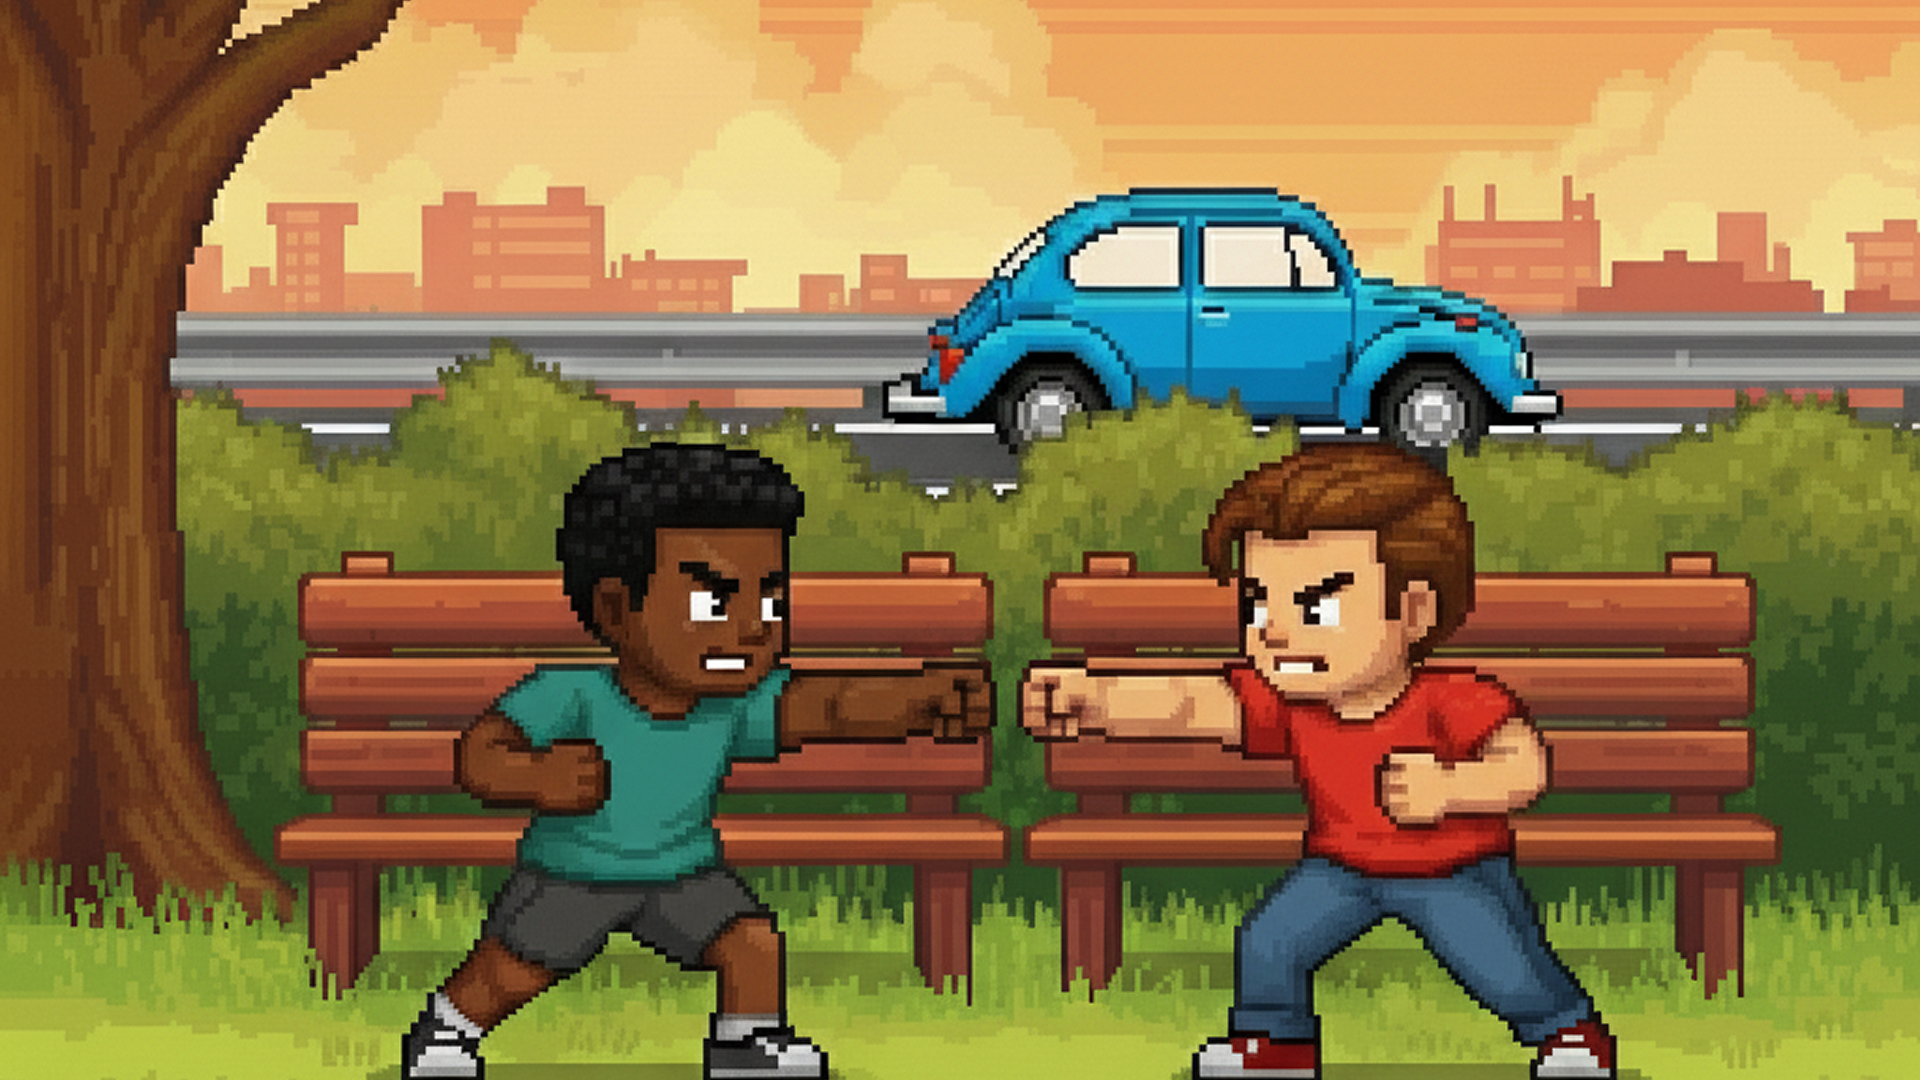
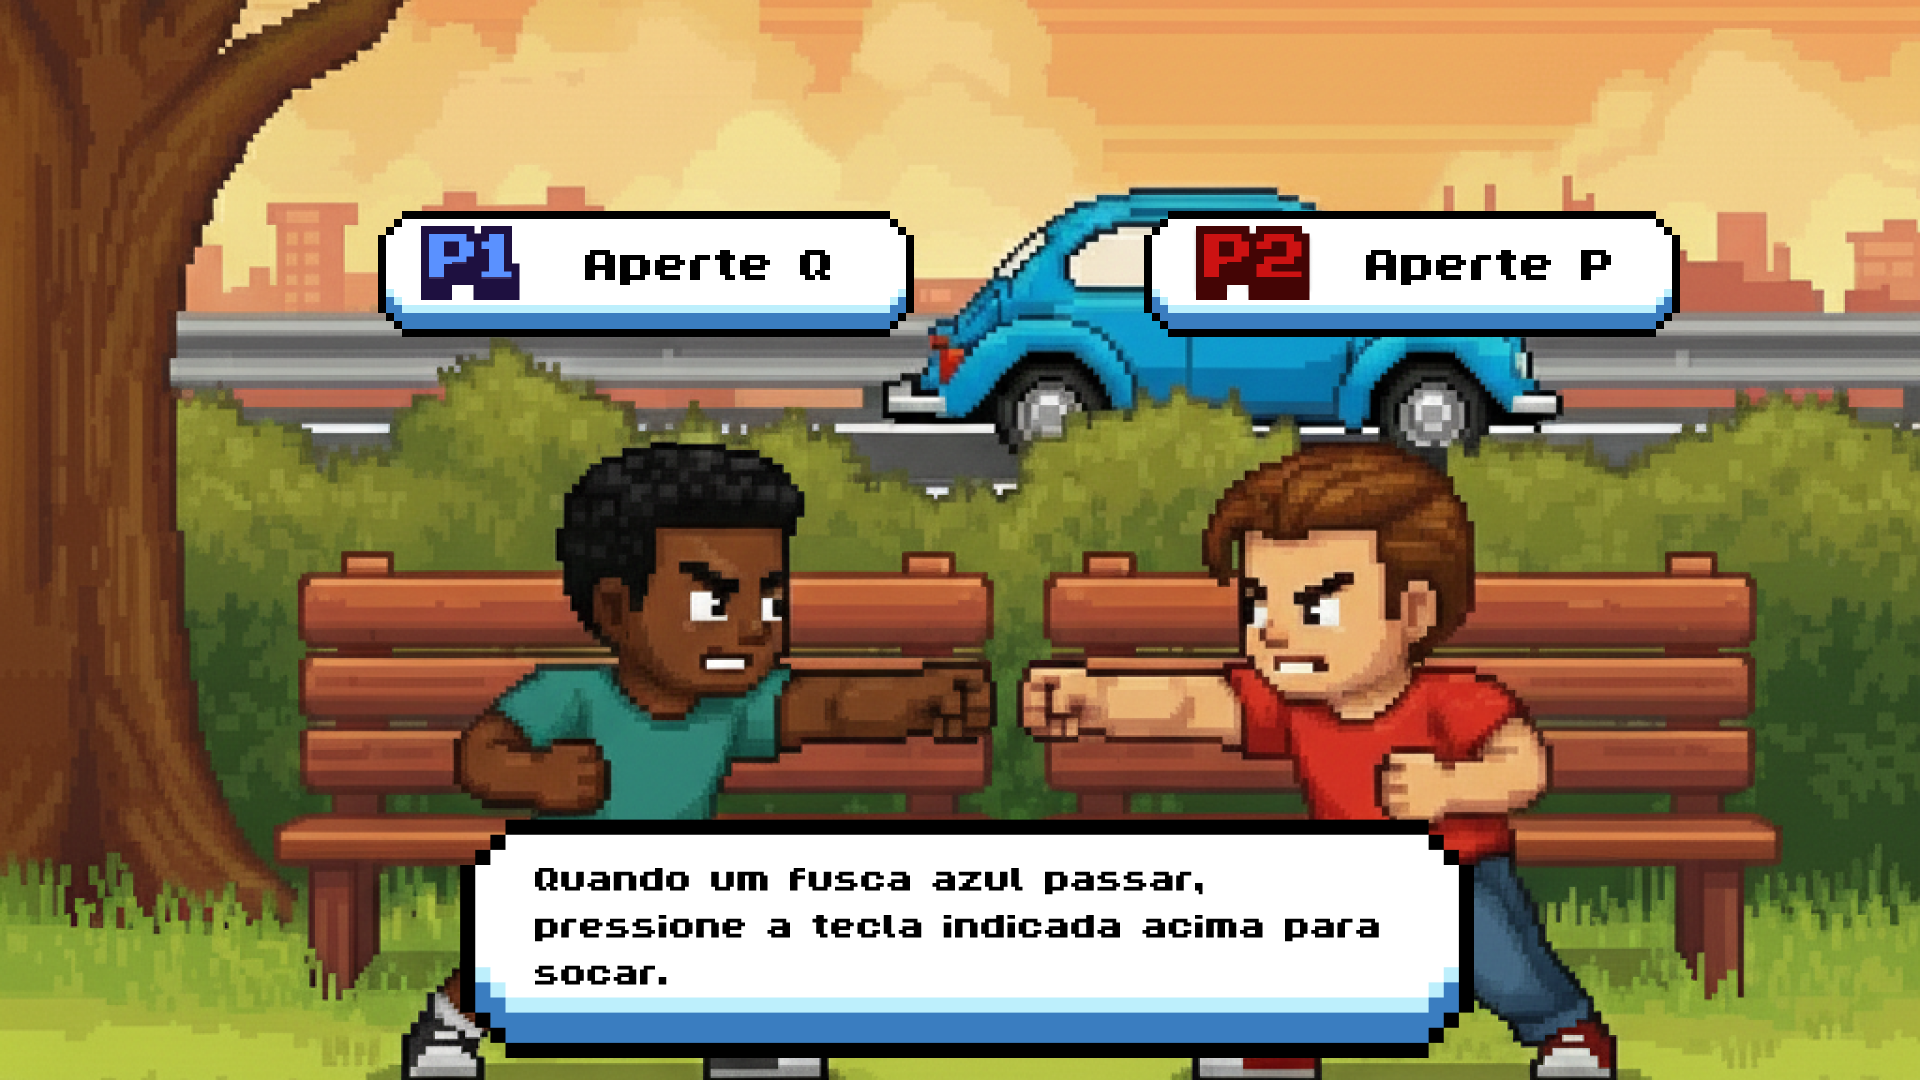
Tela de Carregamento

diff --git a/scenes/LoadingScreen.js b/scenes/LoadingScreen.js
@@ -1,17 +1,30 @@
-// Loading screen with Beetle animation
-export default class LoadingScreen extends Phaser.Scene {
+class LoadingScreen extends Phaser.Scene {
   constructor() {
     super('LoadingScreen');
   }
 
-  init(data) {
-
-  }
-
   preload() {
+    this.load.image('fundo-load', 'assets/Menu/loadingScreen.png')
+
   }
 
   create() {
+    this.cameras.main.fadeIn(1000);
+    this.add.image(
+      this.cameras.main.width / 2, this.cameras.main.height / 2, 'fundo-load').setDisplaySize(this.cameras.main.width, this.cameras.main.height);
 
+    this.time.addEvent({
+      delay: 5000, // Tempo em milissegundos (2 segundos)
+      callback: () => {
+
+        this.cameras.main.fadeOut(1000);
+        this.time.addEvent({
+          delay: 1000, // Tempo em milissegundos (2 segundos)
+          callback: () => {
+            this.scene.start('FasePrincipal'); // Inicia a tela de configuração
+          }
+        })
+      }
+    })
   }
 }

diff --git a/scenes/menuInicial.js b/scenes/menuInicial.js
@@ -90,7 +90,7 @@ class menuInicial extends Phaser.Scene {
                         delay: 1000, // Tempo em milissegundos (2 segundos)
                         callback: () => {
                             this.soundtrack1.stop();
-                            this.scene.start('FasePrincipal'); // Inicia a tela de configuração
+                            this.scene.start('LoadingScreen'); // Inicia a tela de configuração
                         }
                     })
                 });

diff --git a/scenes/Gameplay.js b/scenes/Gameplay.js
@@ -51,12 +51,10 @@ class FasePrincipal extends Phaser.Scene {
   }
 
   create() {
+
+    this.cameras.main.fadeIn(1000);
     // Pontuação
     this.pontos = { j1: 0, j2: 0 };
-
-
-
-
     this.perso1 = this.add.image(70, 50, 'P1').setScale(0.45)
     this.perso2 = this.add.image(1090, 50, 'P2').setScale(0.45)
 

diff --git a/index.html b/index.html
@@ -28,6 +28,7 @@
   <script src="./phaser.js"></script> <!------ adiciona o script do Phaser ------->
   <script src="./scenes/menuInicial.js"></script>
   <script src="./scenes/Gameplay.js"></script>
+  <script src="./scenes/LoadingScreen.js"></script>
   <script src="./main.js"></script>
 </head>
 

diff --git a/main.js b/main.js
@@ -3,7 +3,7 @@ const config = {
   type: Phaser.AUTO,
   width: 1280,
   height: 720,
-  scene: [menuInicial, FasePrincipal],
+  scene: [menuInicial,  FasePrincipal, LoadingScreen],
   pixelArt: true,
   physics: {
     default: 'arcade',
